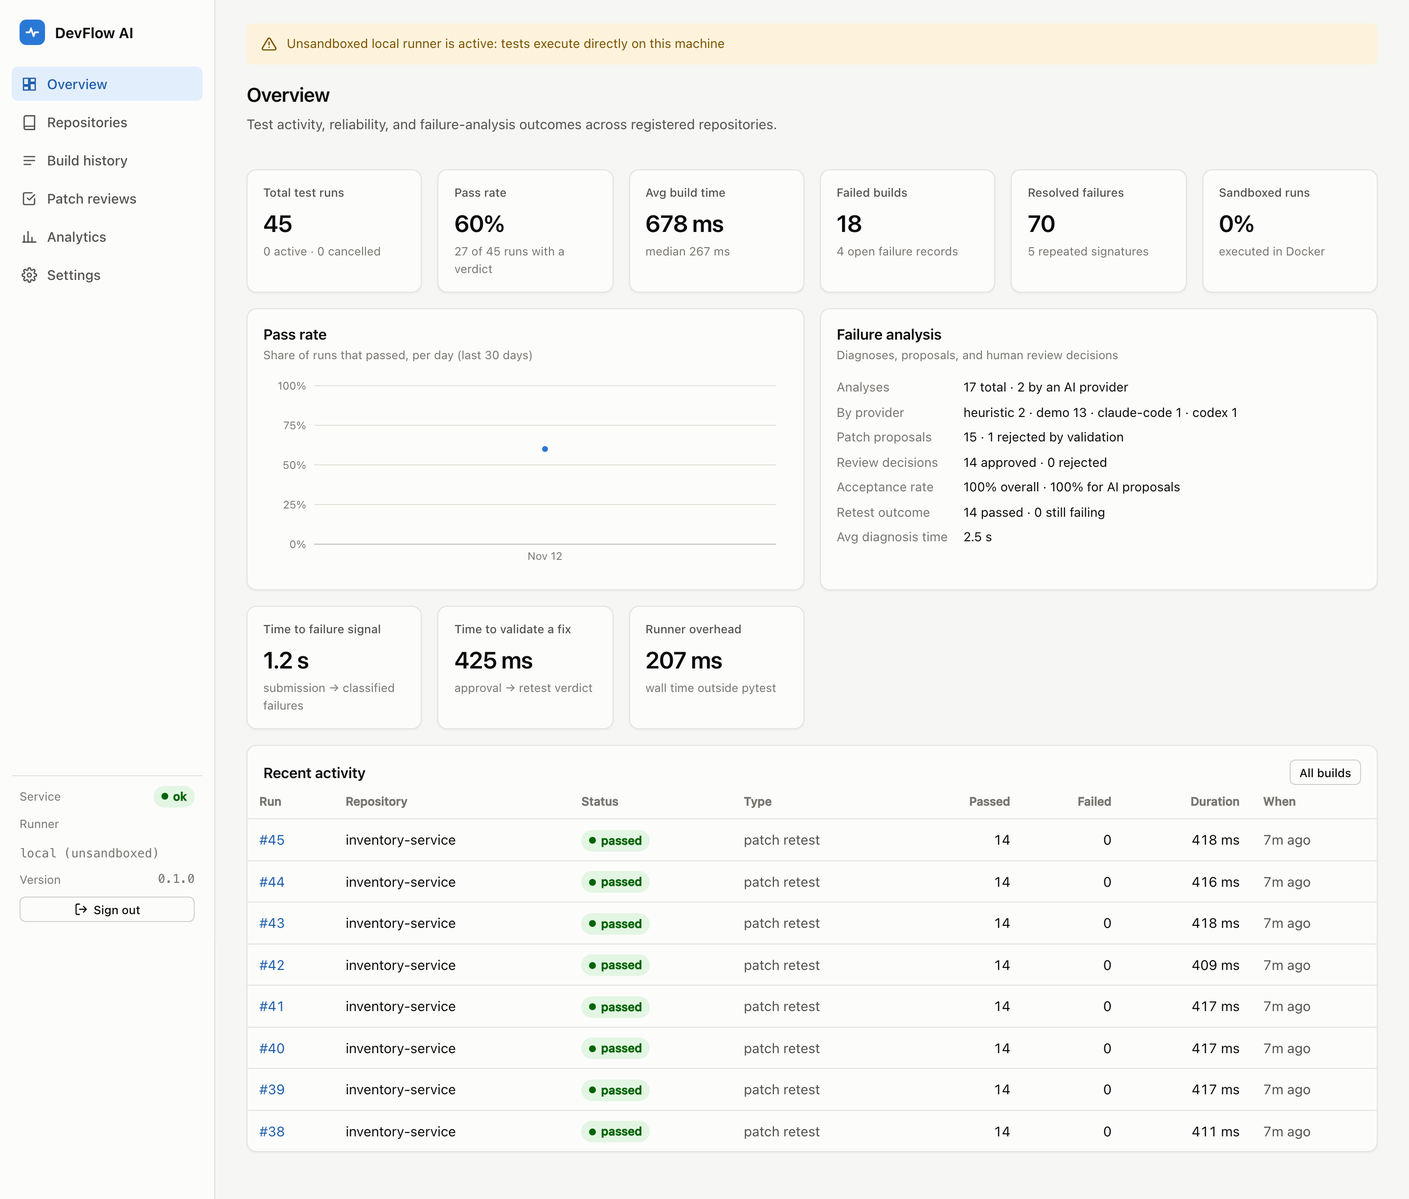
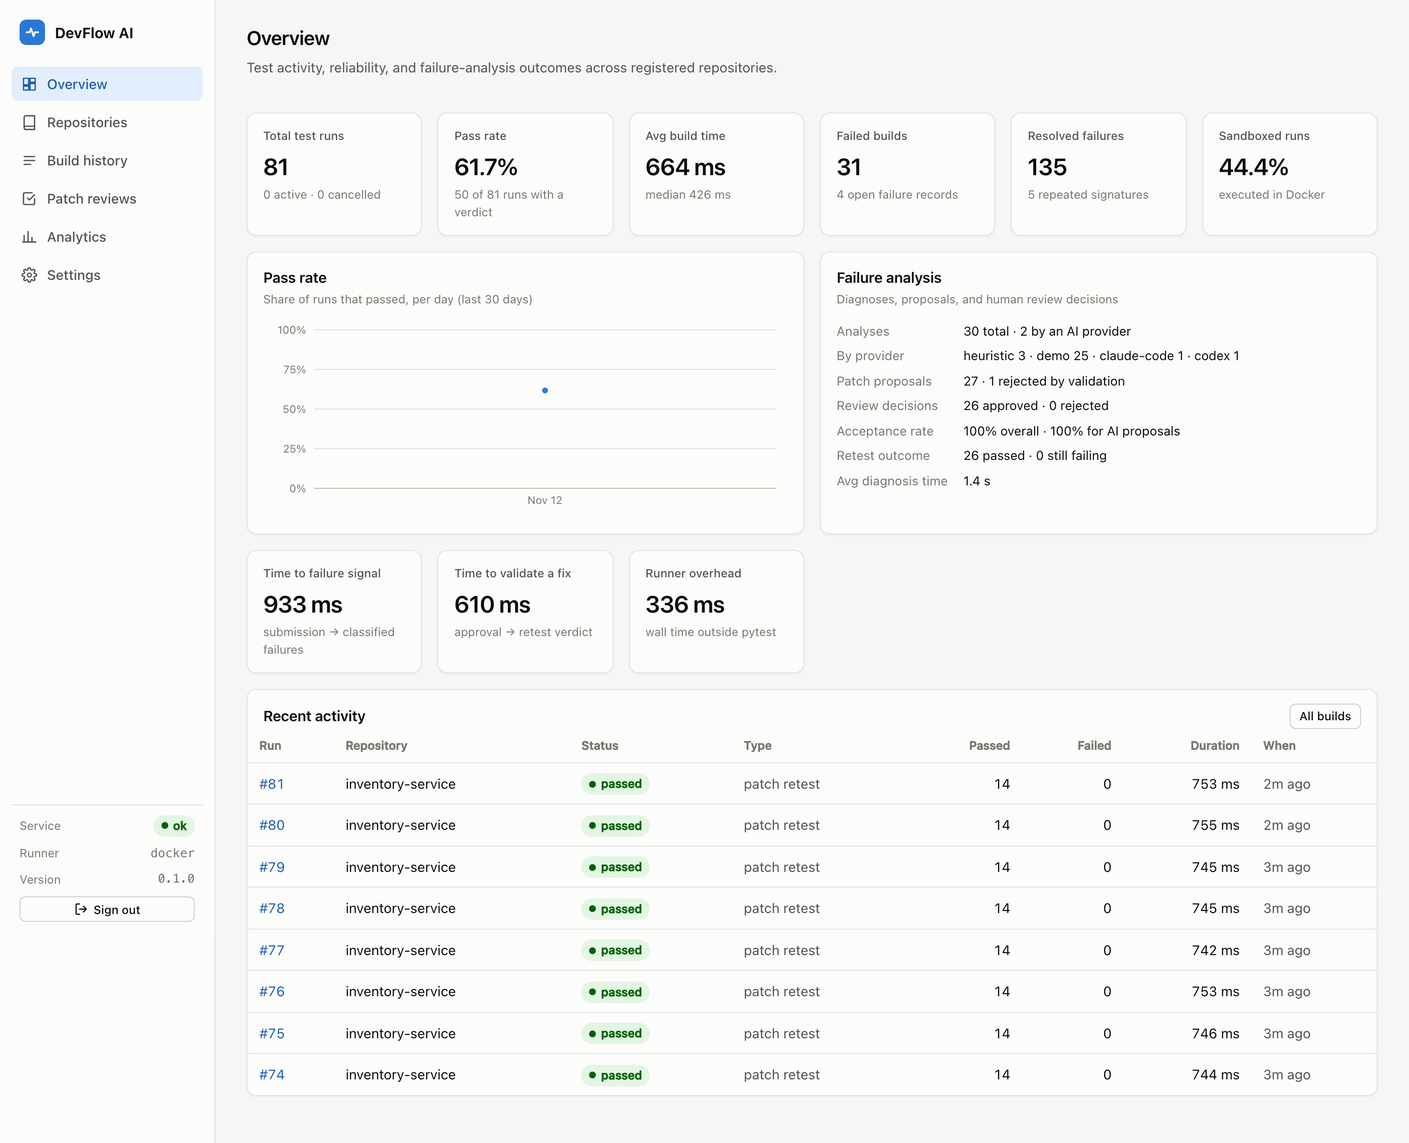
Verify Docker sandbox live; Docker benchmarks; fix app image data dir
- Live sandbox tests pass (5/5) on Docker Desktop 29.9.3; mount probe now
  asserts the exact host mount table instead of stat-ing /root/.ssh
- End-to-end demo verified through the Docker runner
- Docker benchmark batch with a per-component time breakdown
- App image: create /data owned by the non-root user (crashed at start)
- Find Docker Desktop's per-user CLI (~/.docker/bin) automatically
- Docs updated to match what is now verified

diff --git a/backend/tests/test_docker_sandbox.py b/backend/tests/test_docker_sandbox.py
@@ -51,10 +51,21 @@ def test_root_filesystem_is_read_only():
     with pytest.raises(OSError):
         pathlib.Path("/usr/local/lib/evil").write_text("x")
 
-def test_no_host_home_or_docker_socket():
-    assert not pathlib.Path("/var/run/docker.sock").exists()
-    assert not any(pathlib.Path("/").glob("Users"))
-    assert not pathlib.Path("/root/.ssh").exists()
+PSEUDO_FS = {"proc", "sysfs", "tmpfs", "devpts", "mqueue", "cgroup", "cgroup2", "overlay"}
+DOCKER_MANAGED = {"/etc/hosts", "/etc/hostname", "/etc/resolv.conf"}
+
+def test_only_expected_host_mounts():
+    mounts = [line.split() for line in pathlib.Path("/proc/self/mounts").read_text().splitlines()]
+    host = {m[1]: m[3].split(",") for m in mounts if m[2] not in PSEUDO_FS and m[1] not in DOCKER_MANAGED}
+    assert set(host) == {"/src", "/out"}, host
+    assert "ro" in host["/src"]
+    root = next(m for m in mounts if m[1] == "/")
+    assert "ro" in root[3].split(",")
+
+def test_no_docker_socket_or_root_home():
+    assert not os.path.exists("/var/run/docker.sock")
+    assert not os.path.exists("/run/docker.sock")
+    assert not os.access("/root", os.R_OK)  # root's home is unreadable to the sandbox user
 
 def test_capabilities_dropped():
     status = pathlib.Path("/proc/self/status").read_text()

diff --git a/backend/devflow/config.py b/backend/devflow/config.py
@@ -7,6 +7,7 @@ live in the database instead; see ``devflow.services.settings``.
 from __future__ import annotations
 
 import ipaddress
+import shutil
 from functools import lru_cache
 from pathlib import Path
 from typing import Literal
@@ -41,7 +42,7 @@ class Settings(BaseSettings):
     # only be enabled from the environment, never through the API.
     allow_unsandboxed_runner: bool = False
     runner_image: str = "devflow-runner:0.1"
-    docker_binary: str = "docker"
+    docker_binary: str = Field(default_factory=lambda: _default_docker())
     max_concurrent_jobs: int = Field(default=2, ge=1, le=8)
 
     claude_binary: str = "claude"
@@ -96,6 +97,14 @@ class Settings(BaseSettings):
     @property
     def ai_workspaces_dir(self) -> Path:
         return self.resolved_data_dir / "ai-workspaces"
+
+
+def _default_docker() -> str:
+    """`docker` on PATH, else Docker Desktop's per-user install location."""
+    if shutil.which("docker"):
+        return "docker"
+    user_install = Path.home() / ".docker" / "bin" / "docker"
+    return str(user_install) if user_install.is_file() else "docker"
 
 
 def is_loopback(host: str) -> bool:

diff --git a/README.md b/README.md
@@ -8,13 +8,10 @@ before anything can touch the repository.
 
 ![Overview dashboard](docs/screenshots/overview.png)
 
-> **Status (honest summary).** The full workflow is implemented and verified end to end
-> on macOS (Apple Silicon) with the opt-in local runner, including real Claude Code and
-> Codex analyses. The Docker sandbox runner is fully implemented and its command
-> construction and failure handling are unit-tested, but **live container runs had not
-> yet been executed on the development machine when this was written** (Docker Desktop
-> was not installed); the live sandbox tests in `backend/tests/test_docker_sandbox.py`
-> run in CI. See [Verification status](#verification-status).
+> **Status.** The full workflow is implemented and verified end to end on macOS (Apple
+> Silicon, Docker Desktop 29.9) with the Docker sandbox runner, including live
+> security-property tests inside the container and real Claude Code and Codex analyses.
+> See [Verification status](#verification-status) for exactly what was and wasn't run.
 
 ---
 
@@ -96,8 +93,9 @@ Details: [docs/ARCHITECTURE.md](docs/ARCHITECTURE.md).
 
 ## Screenshots
 
-All screenshots are of the running application with real recorded data (runs used the
-local runner; see status note above).
+All screenshots are of the running application with real recorded data. Earlier runs
+in the history used the local runner, before Docker was installed. Recent ones ran in
+the Docker sandbox.
 
 | | |
 |---|---|
@@ -172,22 +170,23 @@ PASS / FAIL / BLOCKED. It uses `examples/repos/inventory-service`, a small libra
 four intentional bugs (5 failing tests out of 14). A run on the development machine:
 
 ```
-[PASS] Server healthy - runner=local sandboxed=False
+[PASS] Server healthy - runner=docker sandboxed=True
 [PASS] 1. Register sample repository
-[PASS] 2. Run tests with the UNSANDBOXED local runner - 9 passed, 5 failed in 275 ms
+[PASS] 2. Run tests in Docker - 9 passed, 5 failed in 583 ms
 [PASS] 3. Detect failures - assertion, exception
 [PASS] 4. Capture stack traces
 [PASS] 5a. Rule-based diagnosis (no AI)
-[PASS] 5b. AI diagnosis (claude-code) - Four independent bugs in the code under test ... (23873 ms, 1 patch)
+[BLOCKED] 5b. AI diagnosis - not requested (pass --ai claude-code or --ai codex)
 [PASS] 6. Patch proposal (SCRIPTED DEMO, not AI)
 [PASS] 7. Human review and approval
 [PASS] 8. Apply to isolated snapshot and retest - 14/14 passed
 [PASS] 9. Compare baseline and final results - 5 fixed, 0 regressed
 [PASS] 10. Metrics recorded
-12 passed, 0 failed, 0 blocked
+11 passed, 0 failed, 1 blocked
 ```
 
-The Claude Code patch from that run was then approved through the API and its sandboxed
+With `--ai claude-code` (run earlier, before Docker was installed, on the local runner),
+step 5b passed: Claude Code identified all four bugs in 23.9 s and proposed a patch. That patch was then approved through the API and its sandboxed
 retest passed 14/14. A Codex analysis of the same run identified the same four root
 causes in 18.3 s; its first patch was **rejected by DevFlow's validation** because the
 diff was malformed (a file header emitted as a context line). That real-world case led
@@ -255,19 +254,21 @@ production-safe.
 
 `benchmarks/run_benchmarks.py` compares a manual baseline (clone + run pytest directly)
 with the DevFlow workflow on identical scenarios, 10 measured iterations after 1 warmup.
-Median results on an Apple Silicon MacBook Air, **local runner**:
+Median results on an Apple Silicon MacBook Air with the **Docker sandbox runner**:
 
-| Scenario | Baseline | DevFlow | Difference |
+| Scenario | Baseline (pytest by hand) | DevFlow (Docker) | Difference |
 |---|---|---|---|
-| Test feedback, passing repo (3 tests) | 209 ms | 402 ms | DevFlow **+193 ms** slower |
-| Test feedback, failing repo (14 tests) | 217 ms | 406 ms | DevFlow **+189 ms** slower |
-| Fix validation (apply patch + rerun) | 218 ms | 457 ms | DevFlow **+238 ms** slower |
+| Test feedback, passing repo (3 tests) | 186 ms | 774 ms | DevFlow **+588 ms** slower |
+| Test feedback, failing repo (14 tests) | 210 ms | 778 ms | DevFlow **+568 ms** slower |
+| Fix validation (apply patch + rerun) | 211 ms | 853 ms | DevFlow **+642 ms** slower |
+| Bare sandboxed container start | | 124 ms | |
 
-DevFlow is slower in raw wall-clock time for these tiny suites: it snapshots the commit,
-records every result, and classifies failures. What it adds is in what you get back
-(structured failures, history, comparison, isolation, review trail), not speed. Docker
-runs will add container start-up cost on top; those numbers will be recorded with
-`make benchmark` once measured. Methodology: [docs/BENCHMARKS.md](docs/BENCHMARKS.md).
+DevFlow is **slower** in raw wall-clock time for these tiny suites. Of the ~778 ms,
+pytest itself takes 28 ms, the container path about 490 ms (start, Python and pytest
+start-up over Docker Desktop's file sharing, teardown), and DevFlow's pipeline about
+260 ms. What it adds is isolation and what you get back (structured failures, history,
+comparison, review trail), not speed. The local runner adds about 190 ms instead.
+Methodology and both batches: [docs/BENCHMARKS.md](docs/BENCHMARKS.md).
 
 ## Verification status
 
@@ -275,13 +276,16 @@ runs will add container start-up cost on top; those numbers will be recorded wit
 |---|---|
 | Backend starts; DB migrates and persists | Verified |
 | Dashboard builds and serves real data | Verified (screenshots above) |
-| Example repo registration; passing/failing detection; history; cancel; timeouts | Verified (local runner + 134 automated backend tests) |
+| Example repo registration; passing/failing detection; history; cancel; timeouts | Verified, in Docker and with the local runner (139 automated backend tests) |
 | Rule-based fallback; scripted demo; approval; retest; compare; export | Verified |
 | Claude Code analysis; Codex analysis | Verified with real CLI calls |
 | Security checks (Bandit, pip-audit, npm audit, workflow schema) | Executed, clean |
+| Docker sandbox: non-root, no network, read-only `/src` and rootfs, only the expected mounts, no socket, zero capabilities, noexec `/tmp`, memory limit, cancel + cleanup, wall-clock timeout | Verified live (`make test-docker`, 5/5) |
+| End-to-end demo through the Docker runner | Verified (11 passed, 1 blocked because AI was not requested) |
+| App image (`Dockerfile`) | Built and run: serves the dashboard, enforces auth, migrates, installs examples |
+| `compose.yaml` with the Docker-socket mount | **Not run**: it grants the container root-equivalent Docker access (documented trade-off) |
 | GitHub Actions workflow | Schema-validated; **not yet run on GitHub** (nothing has been pushed) |
-| Docker sandbox runner live execution | **Not yet verified locally** (Docker not installed at time of writing) |
-| `Dockerfile` / `compose.yaml` for the app image | Written; **not built** (no Docker) |
+| Claude Code and Codex through the Docker runner | AI calls were verified earlier on local-runner runs. The analysis path doesn't depend on the runner, and it was not re-run |
 
 ## Documentation
 

diff --git a/docs/PORTFOLIO.md b/docs/PORTFOLIO.md
@@ -16,9 +16,10 @@ OpenTelemetry traces, and GitHub Actions CI.
   SQLAlchemy/Alembic, React/TypeScript). It automates the test-failure feedback loop:
   isolated test execution, failure classification, AI-assisted diagnosis, and a
   human-approved fix workflow.
-- Designed a **sandboxed test runner** (no network, read-only root filesystem, dropped
-  capabilities, non-root, CPU/memory/PID limits). A validator refuses any container
-  command that weakens isolation, and 10 mutation tests prove each weakening is caught.
+- Designed a **Docker sandbox test runner** (no network, read-only root filesystem,
+  dropped capabilities, non-root, CPU/memory/PID limits). A validator refuses any
+  container command that weakens isolation (10 mutation tests), and live tests verify
+  each property from inside the container.
 - Integrated **Claude Code and Codex CLIs** behind a provider interface with a non-AI
   fallback. Agents get no tools or a read-only sandbox, redacted minimal context, and
   prompt-injection screening. API keys are stripped so analyses never incur metered
@@ -30,12 +31,14 @@ OpenTelemetry traces, and GitHub Actions CI.
 - Hardened Git access against **hostile repositories**: no hooks, filters, or
   fsmonitor, and snapshots built from raw blobs. Tests plant malicious hooks and filter
   drivers and assert they never execute.
-- Wrote **134 backend tests (85% coverage) and 9 frontend tests** covering 13 failure
-  and security scenarios end to end (timeouts, cancellation, duplicate jobs, crash
-  recovery, path traversal, revision injection). Testing found and fixed 7 real bugs.
+- Wrote **139 backend tests (85% coverage, including live Docker sandbox tests) and 9
+  frontend tests** covering 13 failure and security scenarios end to end (timeouts,
+  cancellation, duplicate jobs, crash recovery, path traversal, revision injection).
+  Testing found and fixed 9 real bugs.
 - Added **observability** (structured JSON logs with correlation IDs, Prometheus
   metrics, OpenTelemetry traces) and a **benchmark suite** with a documented method. It
-  reported honestly that the platform adds ~190 ms over raw pytest on small suites.
+  reported honestly that sandboxed runs add ~570 ms over raw pytest on small suites,
+  and broke the cost down (container path ~490 ms, of which pytest is 28 ms).
 - Set up **least-privilege GitHub Actions** (read-only token, no secrets, fork-safe
   trigger) running lint, strict mypy, tests, a Docker sandbox job, Bandit, pip-audit,
   and npm audit.
@@ -77,8 +80,8 @@ OpenTelemetry traces, and GitHub Actions CI.
 |---|---|
 | Environment inspection, isolated venv, dedicated Git repo | Done |
 | Repository registration, validation, structure detection, commits, revisions | Done, verified |
-| Test execution, results, logs, timeouts, cancellation, duplicates, history, compare | Done, verified (local runner) |
-| Docker sandbox runner | Implemented and unit-tested; **live run pending Docker install** |
+| Test execution, results, logs, timeouts, cancellation, duplicates, history, compare | Done, verified (Docker and local runner) |
+| Docker sandbox runner | Done, verified live (5/5 sandbox tests, end-to-end demo) |
 | Failure classification and repeated/resolved tracking | Done, verified |
 | AI providers (Claude Code, Codex), heuristic fallback, scripted demo | Done, verified live |
 | Patch validation, risk, approval, retest, export | Done, verified |
@@ -86,9 +89,10 @@ OpenTelemetry traces, and GitHub Actions CI.
 | Dashboard (overview, repos, builds, run analysis, reviews, analytics, settings) | Done, verified with screenshots |
 | CLI | Done, verified |
 | Metrics, logs, traces, health warnings | Done, verified |
-| Benchmarks | Done for local runner; **Docker batch pending** |
+| Benchmarks | Done (Docker and local runner batches) |
 | GitHub Actions | Written and schema-validated; **not yet run on GitHub** (no push) |
 | Security checks (Bandit, pip-audit, npm audit) | Executed, clean |
 | Clean-clone setup | Verified (`make setup && make test`, server boot + demo) |
-| App `Dockerfile` / `compose.yaml` | Written; **not built** (no Docker) |
+| App `Dockerfile` | Built and run, verified |
+| `compose.yaml` (Docker-socket mount) | Written; **not run** (root-equivalent; documented trade-off) |
 | Optional: Go service, gRPC, Kubernetes, SSH runners | Not implemented (core first, as specified) |

diff --git a/docs/BENCHMARKS.md b/docs/BENCHMARKS.md
@@ -36,10 +36,40 @@ Results go to the database (shown on Analytics → Benchmarks) and to
 - **Container start-up** (Docker runner only): `docker run --rm` of the sandbox image
   executing `python -c pass` with DevFlow's exact security flags.
 
-## Results
+## Results: Docker sandbox runner
 
-Batch `20261112T214741-f14760`, Apple Silicon MacBook Air (16 GB), macOS 27.2,
-Python 3.14.7, **local runner** (Docker was not installed when this batch ran).
+Batch `20261112T223434-f46e5b`, Apple Silicon MacBook Air (16 GB), macOS 27.2,
+Docker Desktop 29.9.3, Python 3.14.7 (host) / 3.12 (runner image).
+
+| Scenario | Mode | Median | p90 | Min | Max | Std dev |
+|---|---|---|---|---|---|---|
+| Test feedback, calculator-passing | baseline | 185.6 ms | 190.8 | 184.2 | 190.8 | 1.9 |
+| | DevFlow (Docker) | 774.0 ms | 785.6 | 716.8 | 785.6 | 23.5 |
+| Test feedback, inventory-service | baseline | 210.1 ms | 215.2 | 207.2 | 215.2 | 2.3 |
+| | DevFlow (Docker) | 778.1 ms | 787.0 | 768.6 | 787.0 | 5.4 |
+| Fix validation, inventory-service | baseline | 211.1 ms | 214.9 | 208.3 | 214.9 | 1.8 |
+| | DevFlow (Docker) | 852.6 ms | 897.5 | 839.4 | 897.5 | 17.4 |
+| Container start-up (`python -c pass`) | Docker | 123.9 ms | 150.4 | 108.6 | 150.4 | 11.7 |
+
+**Where the time goes** (medians, inventory-service, from each run's recorded timings):
+
+| Component | Time |
+|---|---|
+| pytest executing the 14 tests | 28 ms |
+| Container path: create/start (~124 ms), Python and pytest start-up over Docker Desktop's file sharing (a bare `python -c "import pytest"` container takes ~380 ms), kill/remove | ~490 ms |
+| DevFlow pipeline: API, job scheduling, blob snapshot, JUnit parsing, DB writes, 50 ms polling | ~260 ms |
+| **End to end** | **778 ms** |
+
+The sandbox costs about half a second per run on macOS. Most of that is Docker
+Desktop's VM and file-sharing layer, not DevFlow. On Linux, where containers run
+natively, it is expected to be lower, but that was not measured. Possible reductions:
+reusing a warm container per repository (which weakens per-run isolation) or copying
+the snapshot into the container instead of bind-mounting it.
+
+## Results: local runner (no isolation)
+
+Batch `20261112T214741-f14760`, same machine, **local runner**, measured before Docker
+was installed.
 
 | Scenario | Mode | Median | p90 | Min | Max | Std dev |
 |---|---|---|---|---|---|---|
@@ -50,8 +80,9 @@ Python 3.14.7, **local runner** (Docker was not installed when this batch ran).
 | Fix validation, inventory-service | baseline | 218.3 ms | 219.9 | 217.4 | 219.9 | 0.9 |
 | | DevFlow (local) | 456.7 ms | 461.6 | 429.9 | 461.6 | 10.4 |
 
-**Interpretation.** For these very small suites, DevFlow is **about 190–240 ms slower**
-in wall time than running pytest by hand. The extra time goes to job scheduling, the
+**Interpretation.** For these very small suites, DevFlow is slower than running pytest
+by hand: **about 570–640 ms with the Docker sandbox** and **about 190–240 ms with the
+local runner**. The extra time goes to job scheduling, the
 blob-level snapshot, writing results and failure records, the API round trips, and
 polling. DevFlow is not faster at running tests, and these numbers do not claim it is.
 
@@ -61,10 +92,6 @@ failure seen before, setting up a clean environment to try a fix, and keeping a 
 Those are visible in the product's own metrics (time to failure signal, time to
 validate fix, repeated and resolved failures) but were not measured against a human
 baseline here. Any such claim would need a user study.
-
-**Pending:** Docker-runner results and the container start-up scenario. Run
-`make benchmark` with the Docker runner and add the batch here. Expect container
-start-up to add several hundred milliseconds per run on macOS.
 
 ## AI diagnosis timings (single observations, not a benchmark)
 

diff --git a/docs/TESTING.md b/docs/TESTING.md
@@ -31,7 +31,7 @@ file and line locations, state transitions, and that user repositories stay unch
 | `test_api.py` | 30 | Auth (5 bad-token variants), Host header, correlation IDs, error format, malicious paths (7), approved roots, unsupported repos, settings bounds (7), OpenAPI, loopback enforcement |
 | `test_security.py` | 51 | Path validation and traversal, symlink escapes, hostile git config/filters/hooks, revision injection (6), patch validation (9 malicious shapes), risk scoring, model-diff normalization, redaction, command allowlist, env scrubbing, token file |
 | `test_components.py` | 34 | JUnit parsing (including entity-expansion attack), classification (7), signatures, structure detection, Docker command flags and 10 weakening mutations, Docker failure (exit 125), runner unavailable (503), CLI invocation flags, prompt construction/injection, response parsing, DB constraints, concurrent duplicate submissions |
-| `test_docker_sandbox.py` | 5 | Live: UID, no network, read-only `/src` and rootfs, zero capabilities, NoNewPrivs, noexec `/tmp`, examples in Docker, memory limit, cancellation + container cleanup, wall-clock timeout |
+| `test_docker_sandbox.py` | 5 | Live, from inside the container: UID, no network, read-only `/src` and rootfs, only `/src` and `/out` mounted from the host (read from `/proc/self/mounts`), no Docker socket, `/root` unreadable, zero capabilities, NoNewPrivs, noexec `/tmp`. Also: examples in Docker, memory limit, cancellation + container cleanup, wall-clock timeout |
 | `frontend/src/__tests__` | 9 | Status badges are labeled, diff rendering, formatting, sign-in errors and bearer header, approval requires an explicit click and posts the decision, invalid patches cannot be approved, export disabled until acknowledged, build history filters |
 
 ## Required scenarios
@@ -54,7 +54,8 @@ file and line locations, state transitions, and that user repositories stay unch
 
 ## Results on the development machine
 
-- Backend: **134 passed**, 5 Docker tests skipped (no Docker engine), 85% line coverage.
+- Backend: **139 passed, 0 skipped**, including the 5 live Docker sandbox tests
+  (Docker Desktop 29.9.3), with 85% line coverage.
 - Frontend: **9 passed**.
 - `ruff check`, `ruff format --check`, `mypy --strict` (50 files), `tsc`: clean.
 
@@ -76,3 +77,9 @@ Live testing caught issues the unit tests had not, and each now has a regression
 7. A patch's retest verdict was only recorded when someone opened the patch, so the
    analytics showed stale "retesting" rows. The verdict is now written in the same
    transaction that finishes the retest run, and migration `0002` repairs existing rows.
+8. The application image crashed at start: the `/data` volume was created owned by
+   root, and the image runs as a non-root user. The image now creates `/data` owned by
+   that user. Found by building and running the image.
+9. A sandbox probe used `Path.exists()` on `/root/.ssh`, which raises
+   `PermissionError` for the unprivileged user on Python 3.12. The sandbox was correct
+   and the probe was wrong. It now asserts the exact mount table instead.

diff --git a/docs/SECURITY.md b/docs/SECURITY.md
@@ -4,10 +4,9 @@ DevFlow AI runs code it did not write (test suites) and consults tools whose out
 cannot trust (AI agents). This document lists what is treated as untrusted, the controls
 in place, how they are tested, and the risks that remain.
 
-> DevFlow is a local developer tool. Its controls have been unit- and integration-tested,
-> but it has **not** had an external security review, and the Docker sandbox had not yet
-> been exercised live on the development Mac at the time of writing (CI runs those
-> tests). Do not describe it as production-safe.
+> DevFlow is a local developer tool. Its controls have been unit-, integration-, and
+> live-container-tested on the development Mac (Docker Desktop 29.9), but it has
+> **not** had an external security review. Do not describe it as production-safe.
 
 ## Trust boundaries
 
@@ -159,6 +158,7 @@ Every diff goes through the same checks, whatever its source:
 | npm audit | 0 vulnerabilities |
 | Workflow schema (`check-jsonschema`) | Valid |
 | Security regression tests | Passing (path traversal, symlink escape, hostile git config, revision injection, malicious patches, redaction, command allowlist, env scrubbing, auth, Host header, settings bounds, sandbox flag validation) |
+| Live sandbox properties (`make test-docker`) | 5/5 passing on Docker Desktop 29.9.3. Mount table observed from inside: rootfs `overlay ro`, `/src` `ro`, `/out` `rw`, nothing else from the host |
 
 ## Residual risks
 

diff --git a/docs/DEVELOPMENT.md b/docs/DEVELOPMENT.md
@@ -51,6 +51,7 @@ scripts/screenshots.py` (requires `pip install playwright` and
 |---|---|
 | Dashboard says "Missing or invalid API token" | Run `make token` and paste the value. Tokens live in `.devflow/api_token` |
 | Health banner: "Docker engine unavailable" | Start Docker Desktop; `docker version` must show a Server section |
+| `make: docker: No such file or directory` | Docker Desktop's per-user install puts the CLI in `~/.docker/bin`. The Makefile and DevFlow find it there automatically; for your own shell, add `export PATH="$HOME/.docker/bin:$PATH"` to `~/.zprofile` |
 | "Runner image 'devflow-runner:0.1' not built" | `make runner-image` |
 | Runs fail with `missing_dependency` | The sandbox has no network. Add the package to `runner/requirements.txt` and rebuild the image |
 | `403 Repository path is outside the approved directories` | Add the parent directory under Settings → Repository directories |
